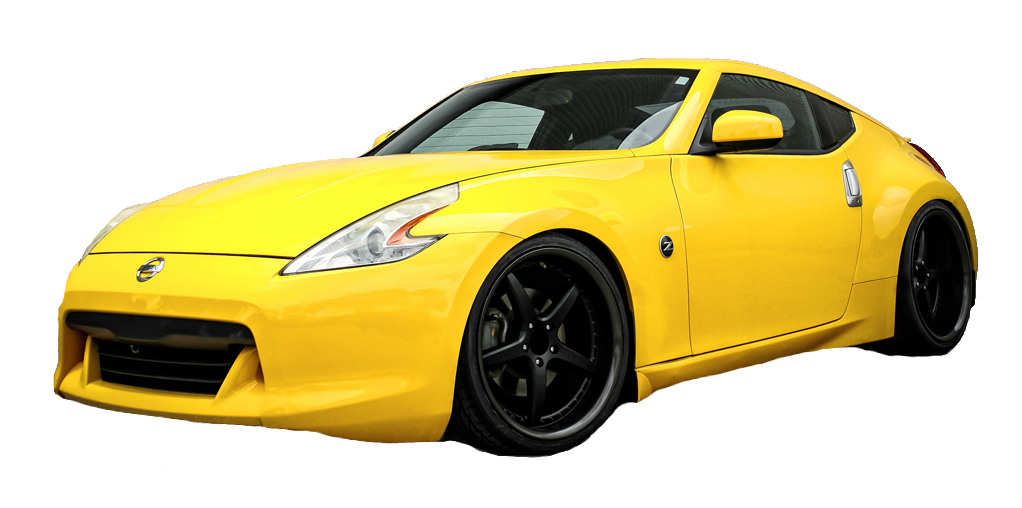
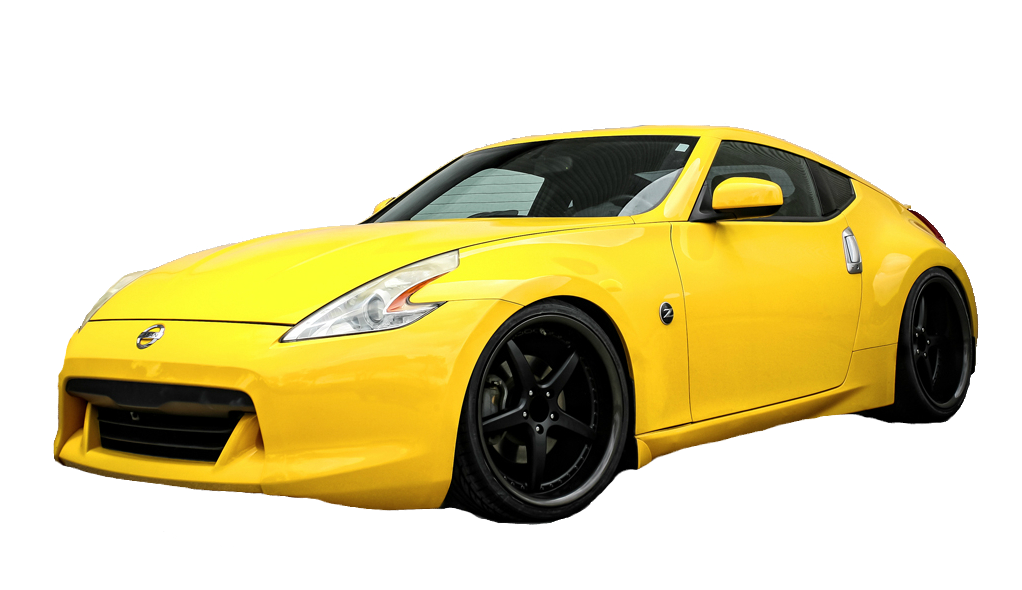
centering images

Changed region(s): [[0.0303, 0.0886, 0.9706, 0.9154], [0.182, 0.8268, 0.3337, 0.8563], [0.3033, 0.7677, 0.3943, 0.7972]]

diff --git a/styles/main.css b/styles/main.css
@@ -67,7 +67,7 @@ div.row .product .productimage {
 div.row .product img {
     text-align: center;
     max-width: 203px;
-    margin: 0px auto;
+    margin: 15px auto;
 }
 div.row .product .price {
     text-align: right;
